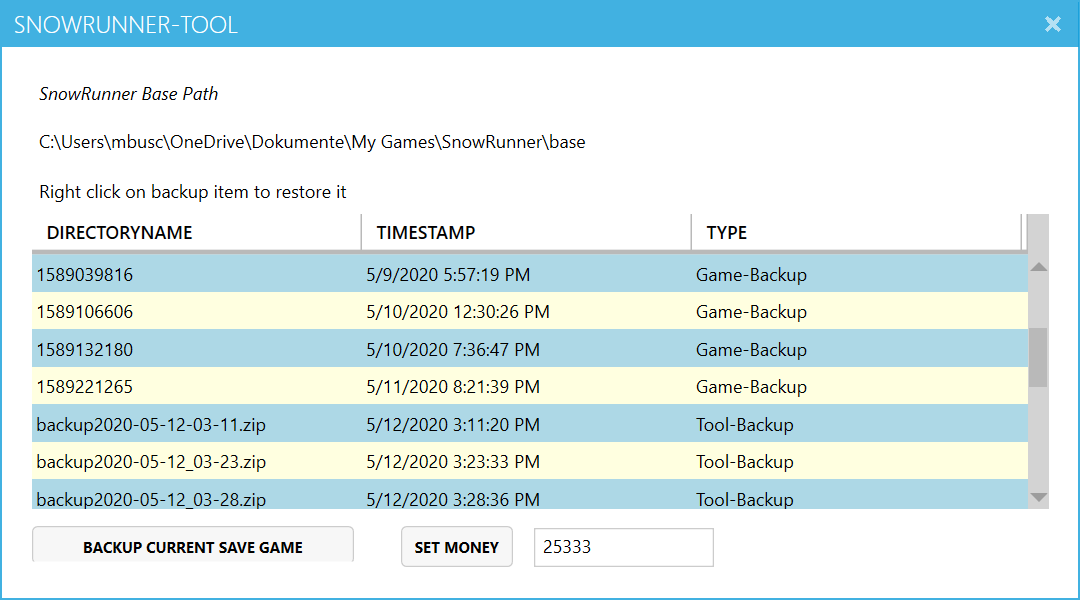
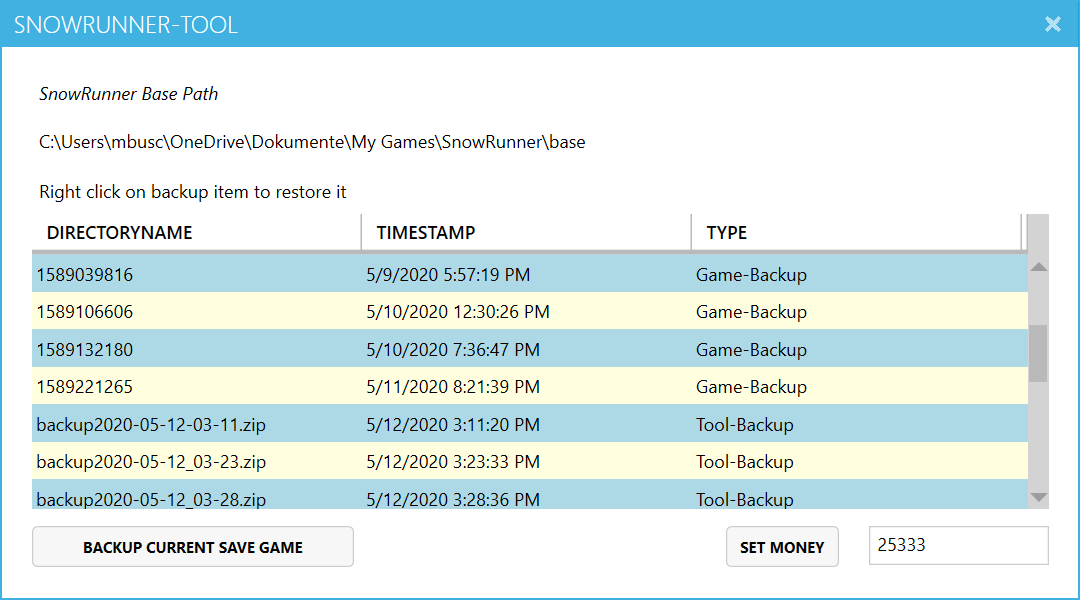
Sort backups by timestamp

diff --git a/SnowRunner-Tool/MainWindow.xaml b/SnowRunner-Tool/MainWindow.xaml
@@ -70,16 +70,25 @@
         </Label>
         <Button Content="Backup current save game" 
                        HorizontalAlignment="Left" 
-                       Margin="20,320,0,24.667"
+                       VerticalAlignment="Top" 
+                       Margin="20,320,0,0"
                        Width="215"
                        RenderTransformOrigin="-0.29,0.04"
                        Command="ApplicationCommands.New"
                 >
         </Button>
-        <TextBox x:Name="txtAmount" HorizontalAlignment="Left" Height="23" Margin="355,321,0,0" TextWrapping="Wrap" Text="Amount" VerticalAlignment="Top" Width="120"/>
+        <TextBox x:Name="txtAmount" 
+                         HorizontalAlignment="Right" 
+                         Height="23" Margin="0,320,20,0" 
+                         TextWrapping="Wrap" 
+                         Text="Amount" 
+                         VerticalAlignment="Top" 
+                         Width="120"
+                 >
+        </TextBox>
         <Button Content="Set Money" 
-                       HorizontalAlignment="Left" 
-                       Margin="266,320,0,0" 
+                       HorizontalAlignment="Right" 
+                       Margin="0,320,160,0" 
                        VerticalAlignment="Top" 
                        Width="75" 
                        RenderTransformOrigin="-0.29,0.04"

diff --git a/SnowRunner-Tool/MainWindow.xaml.cs b/SnowRunner-Tool/MainWindow.xaml.cs
@@ -12,6 +12,8 @@ using System.Reflection;
 using System.Text;
 using MahApps.Metro.Controls.Dialogs;
 using System.Threading.Tasks;
+using System.Globalization;
+using System.ComponentModel;
 
 namespace SnowRunner_Tool
 {
@@ -52,6 +54,8 @@ namespace SnowRunner_Tool
             var allBackups = getBackups();
             allBackups.AddRange(getMyBackups());
             dgBackups.ItemsSource = allBackups;
+            dgBackups.Items.SortDescriptions.Clear();
+            dgBackups.Items.SortDescriptions.Add(new SortDescription("Timestamp", ListSortDirection.Descending));
             dgBackups.Items.Refresh();
         }
 
@@ -67,7 +71,7 @@ namespace SnowRunner_Tool
             {
                 string fName = new FileInfo(f).Name;
                 DateTime timestamp = File.GetCreationTime(f);
-                backups.Add(new Backup() { DirectoryName = fName, Timestamp = timestamp, Type = "Tool-Backup" });
+                backups.Add(new Backup() { BackupName = fName, Timestamp = timestamp, Type = "Tool-Backup" });
             }
             return backups;
         }
@@ -85,7 +89,7 @@ namespace SnowRunner_Tool
             {
                 string dir = new DirectoryInfo(subdirectory).Name;
                 DateTime timestamp = Directory.GetCreationTime(subdirectory);
-                backups.Add(new Backup() { DirectoryName = dir, Timestamp = timestamp, Type = "Game-Backup" });
+                backups.Add(new Backup() { BackupName = dir, Timestamp = timestamp, Type = "Game-Backup" });
             }
             return backups;
         }
@@ -124,7 +128,7 @@ namespace SnowRunner_Tool
             var item = (DataGrid)contextMenu.PlacementTarget;
             var restoreItem = (Backup)item.SelectedCells[0].Item;
             backupCurrentSavegame();
-            restoreBackup(restoreItem.DirectoryName, restoreItem.Type);
+            restoreBackup(restoreItem.BackupName, restoreItem.Type);
             _ = MetroMessage("Next time better luck", "The selected save game backup has been restored. A backup of your former save game has been saved in " + MyBackupDir);
         }
 
@@ -157,7 +161,7 @@ namespace SnowRunner_Tool
                 Directory.CreateDirectory(MyBackupDir);
             }
             string startPath = SRSaveGameDir;
-            string timestamp = DateTime.Now.ToString("yyyy-MM-dd_hh-mm-ss");
+            string timestamp = DateTime.Now.ToString("yyyy-MM-dd_hh-mm-ss", CultureInfo.CurrentCulture);
             string zipPath = MyBackupDir + @"\backup" + timestamp + ".zip";
             
             try

diff --git a/SnowRunner-Tool/backups.cs b/SnowRunner-Tool/backups.cs
@@ -4,7 +4,7 @@ namespace SnowRunner_Tool
 {
     public class Backup
     {
-        public string DirectoryName { get; set; }
+        public string BackupName { get; set; }
         public DateTime Timestamp { get; set; }
         public string Type { get; set; }
     }
